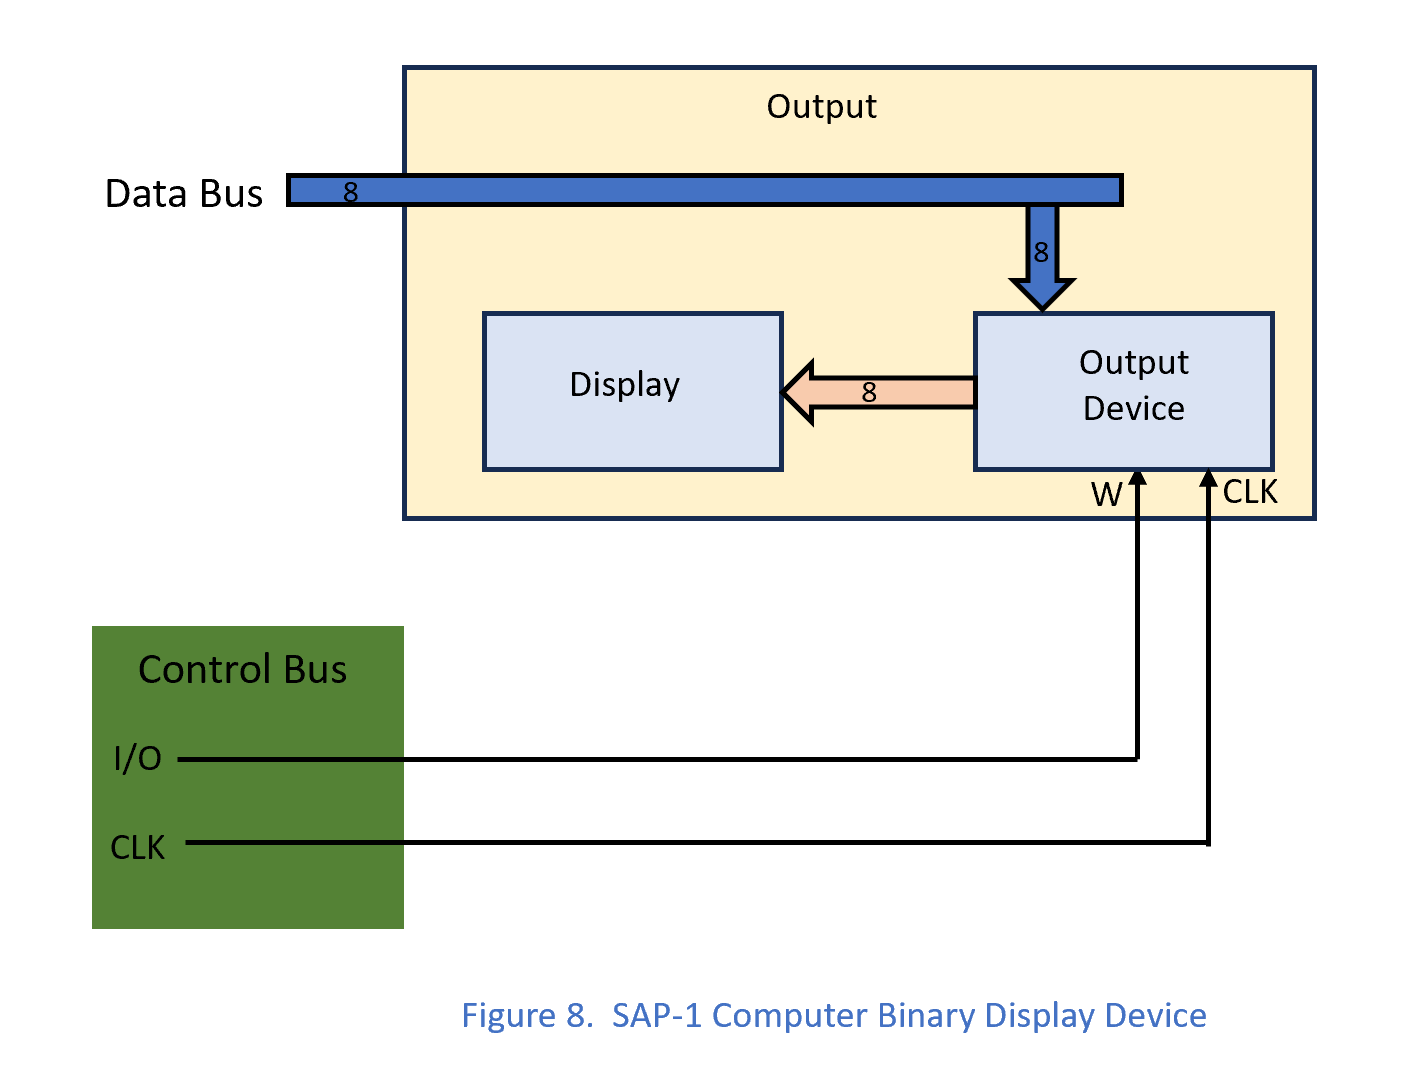
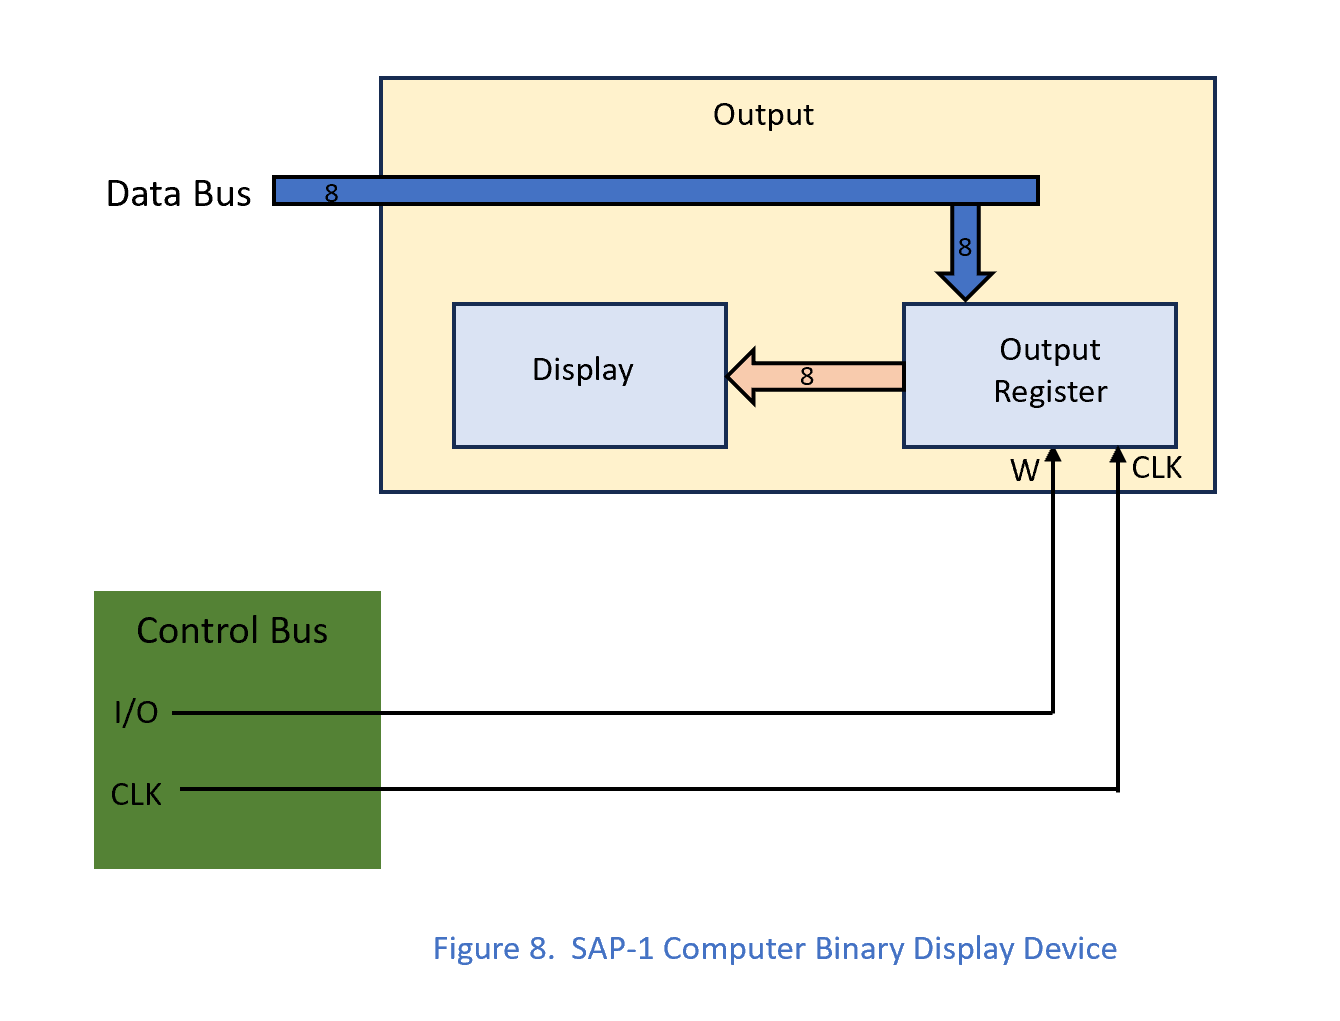
modified:   Pictures/Figure8.png

Changed region(s): [[0.0612, 0.0607, 0.9485, 0.8805], [0.306, 0.9109, 0.8567, 0.9716], [0.3978, 0.334, 0.4896, 0.3947]]

diff --git a/README.md b/README.md
@@ -101,7 +101,7 @@ The LM signal was renamed LAR = Load Address Register \
 The LO signal was renamed I/O = Input/Output Device select
 
 ### Binary Display
-The simplest output device that can be connected to this computer is a Binary Display. This device is used in the original construction of the SAP-1 Computer, where it is integrated directly into the structure of this computer.
+The simplest output device that can be connected to this Computer is a Binary Display. This device is used in the original construction of the SAP-1 Computer, where it is integrated directly into the structure of this Computer.
 
 My version of the Block Diagram is identical to the original, except that I treated the original Output Register as a standalone block that is connected to the system buses as an Input/Output Device.
 
